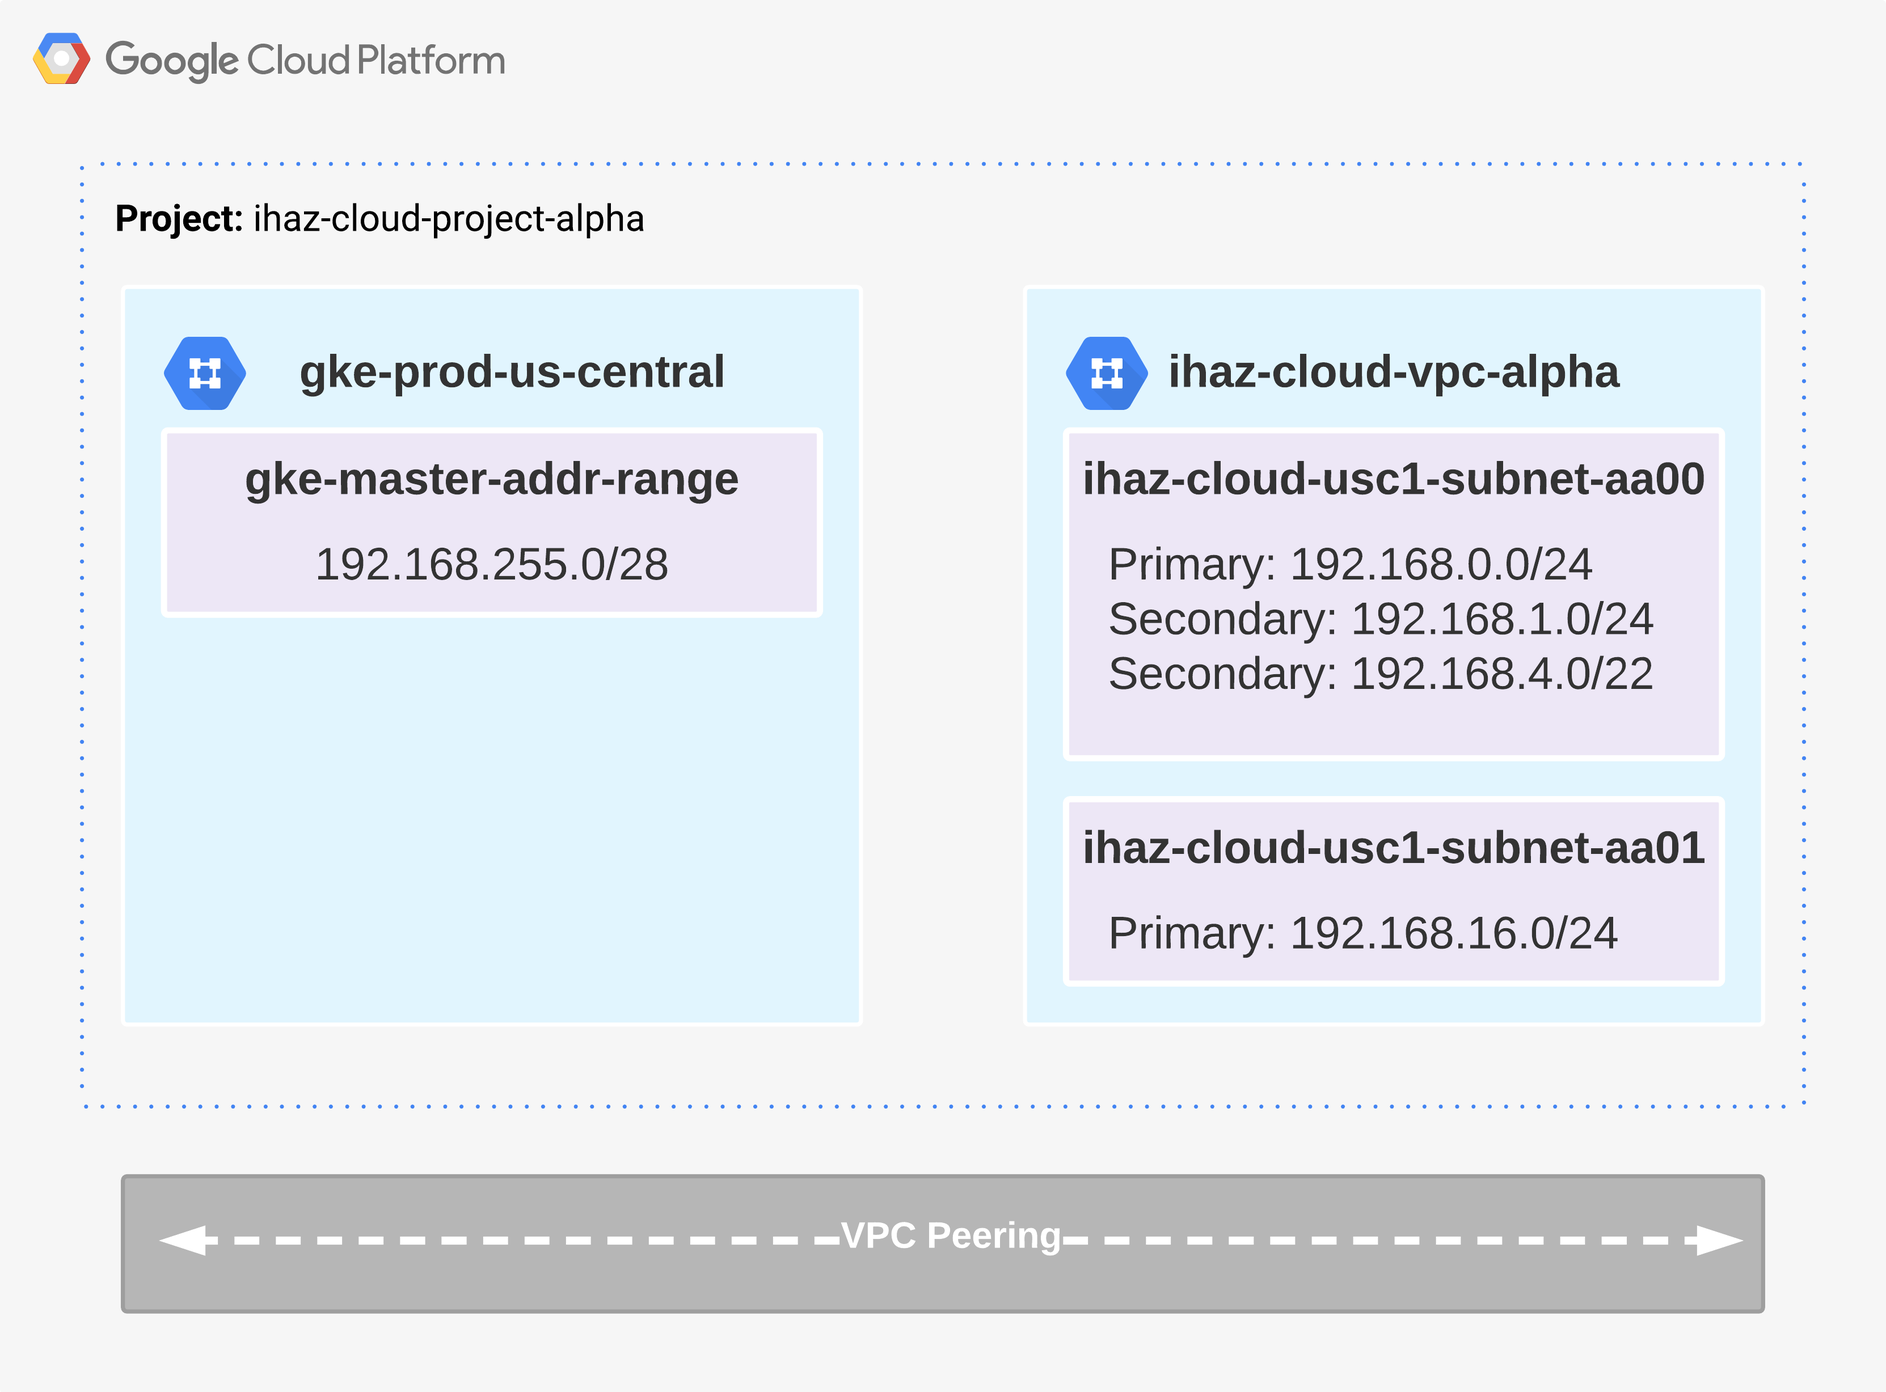
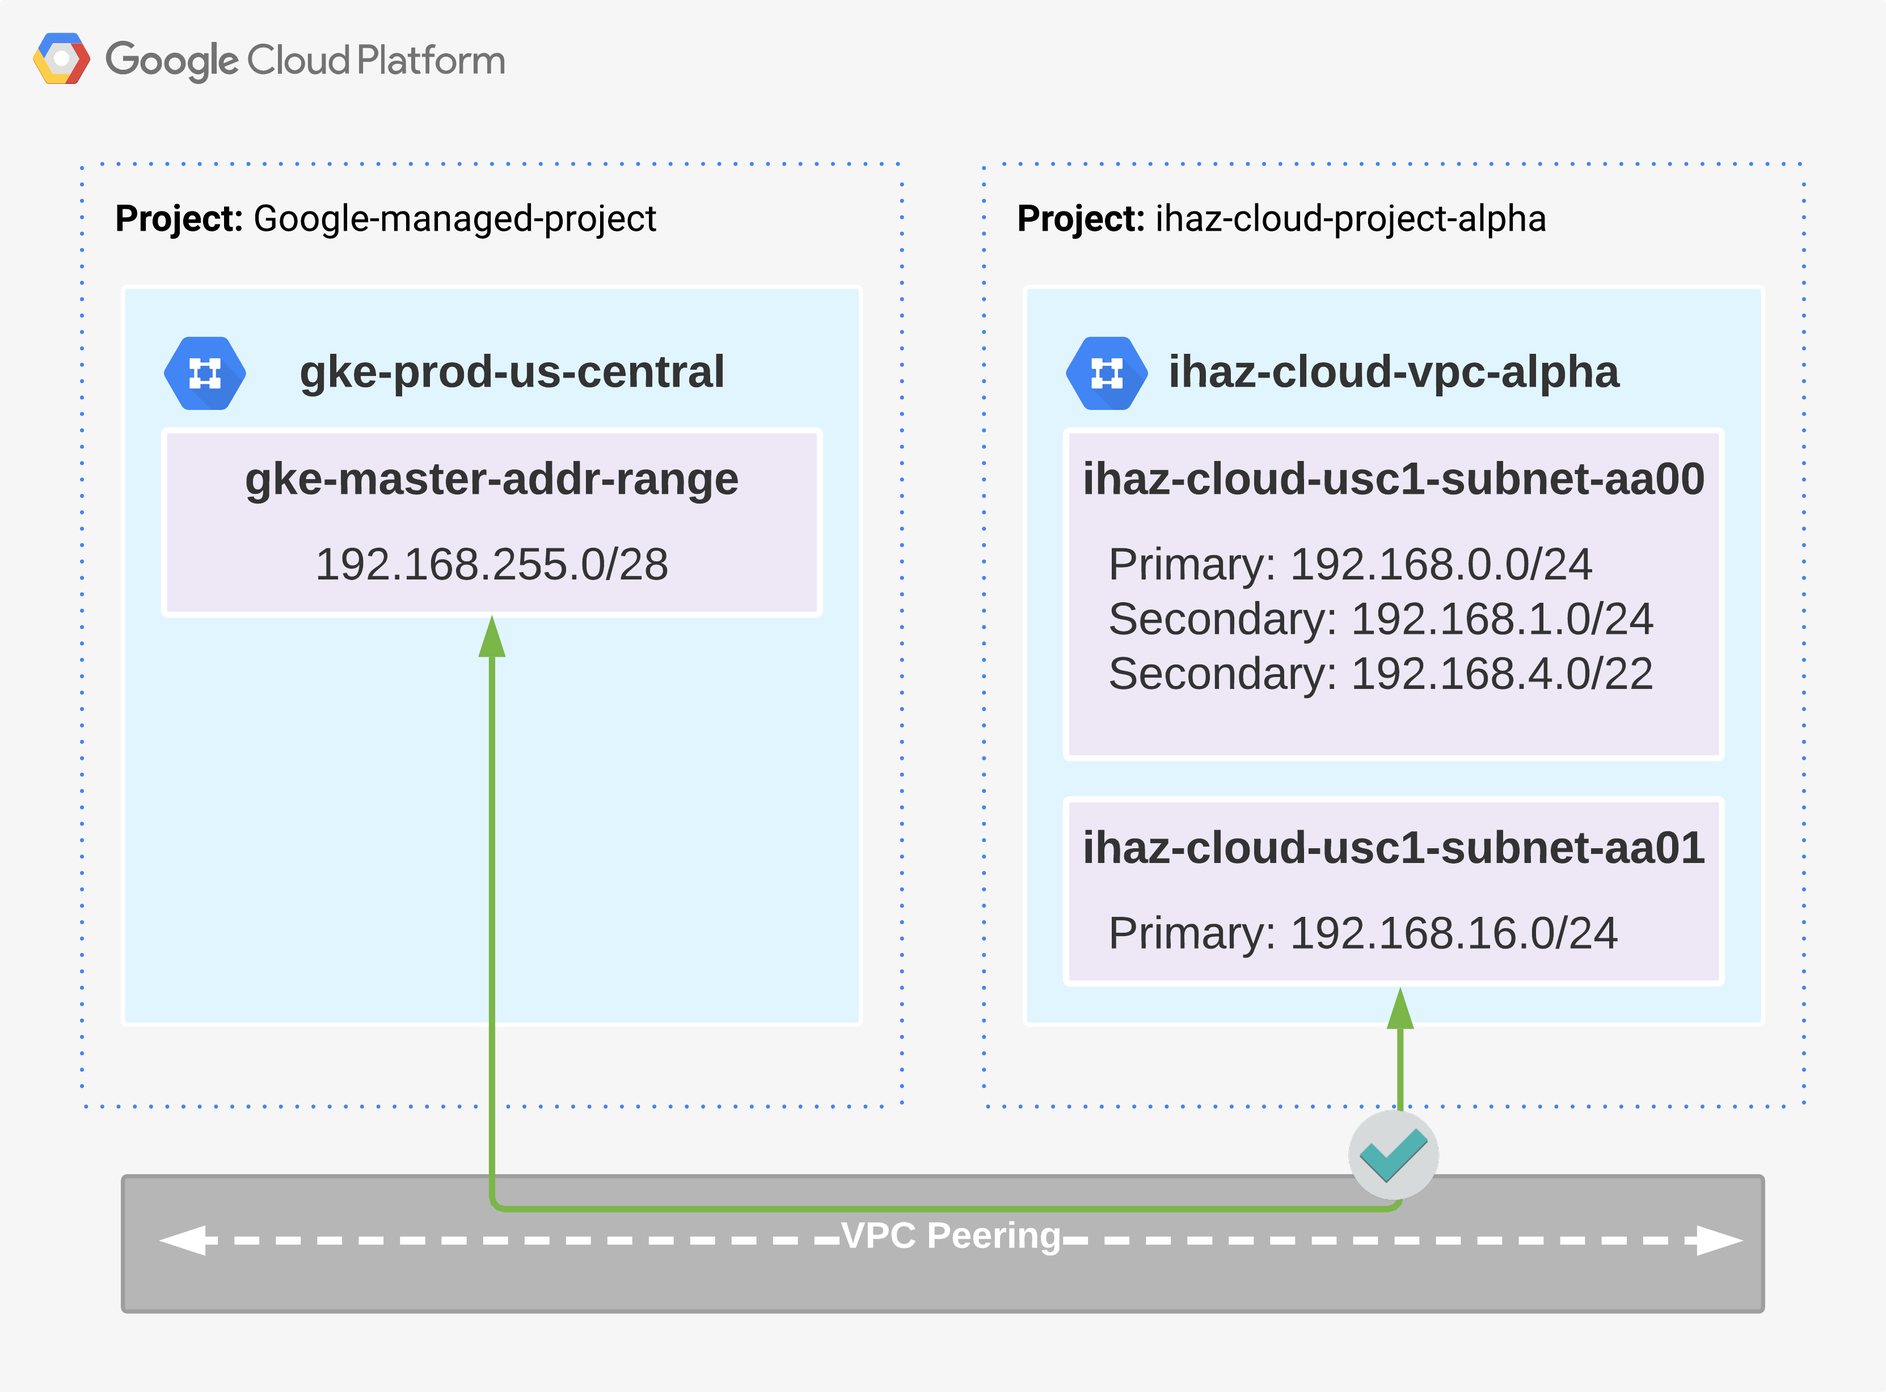
updated vpn overlay concept

diff --git a/google-cloud/1-vpn-overlay-for-vpc-peer-routing/readme.md b/google-cloud/1-vpn-overlay-for-vpc-peer-routing/readme.md
@@ -7,59 +7,256 @@ Some services establish vpc peering between Google managed infrastructure and yo
     - GKE Private Clusters (https://cloud.google.com/kubernetes-engine/docs/concepts/private-cluster-concept)
     - Private Services access for Cloud SQL (https://cloud.google.com/sql/docs/mysql/configure-private-services-access#configure-access)
     - Private IP Cloud Composer (https://cloud.google.com/composer/docs/how-to/managing/configuring-private-ip)
-<img src="./images/vpc-simple-design.png"  width="25%" height="25%" />
+
+<img src="./images/vpc-simple-design.png"  width="50%" height="50%" />
 
 Only directly peered networks can communicate. Transitive peering is not supported. In other words, if VPC network N1 is peered with N2 and N3, but N2 and N3 are not directly connected, VPC network N2 cannot communicate with VPC network N3 over VPC Network Peering.
 - https://cloud.google.com/vpc/docs/vpc-peering#restrictions
 
 ## Example Scenario
-ihaz.cloud has two projects (alpha & bravo). The alpha project has a custom VPC that hosts a GKE private cluster and is peered with both the google managed vpc (hosts GKE Master nodes) and the bravo vpc. 
+ihaz.cloud has two projects (alpha & bravo). The alpha project has a VPC with a GKE private cluster deployed (without an external ip assigned to the master) and is peered with both the google managed vpc (hosts GKE Master nodes) and the bravo vpc. 
 
-<img src="./images/vpc-transitive-issue.png"  width="25%" height="25%" />
+*Note: Since this is a private cluster and it does NOT have a public endpoint*
+
+```bash
+## Example configuration for cluster, notice that both private-nodes and private-endpoints are enabled
+## but  --enable-master-global-access is not included
+##
+## --enable-private-nodes           Cluster is created with no public IP addresses on the cluster nodes. 
+## --enable-private-endpoint        Cluster is managed using the private IP address of the master API endpoint. 
+##
+## --enable-master-global-access    Use with private clusters to allow access to the master's private endpoint from ## any Google Cloud region or on-premises environment regardless of the private cluster's region. 
+
+gcloud beta container \
+  --project "ihaz-cloud-project-alpha" clusters create "cluster-1" \
+  --zone "us-central1-c" --no-enable-basic-auth \
+  --preemptible --num-nodes "3" \
+  --enable-ip-alias \
+  --enable-private-nodes \
+  --enable-private-endpoint \
+  --enable-master-authorized-networks
+  --master-ipv4-cidr "192.168.255.0/28" \
+  --master-authorized-networks "192.168.0.0/16"
+  --network "projects/ihaz-cloud-project-alpha/global/networks/ihaz-cloud-vpc-alpha" \
+  --subnetwork "projects/ihaz-cloud-project-alpha/regions/us-central1/subnetworks/ihaz-cloud-usc1-subnet-aa00" \
+  --default-max-pods-per-node "110" \
+```
+
+When users in the ihaz-cloud-vpc-bravo attempt to communicate with the gke master node using kubectl they receive a timeout error. This occurs because there is no route available.
+
+```bash
+ihaz_admin@cloudshell:~ (ihaz-cloud-project-alpha)$ kubectl get nodes -o wide
+Unable to connect to server: dial tcp 192.168.255.2:443: i/o timeout
+```
+
+<img src="./images/vpc-transitive-issue.png"  width="50%" height="50%" />
+
+```bash
+## Output of current vpc peerings
+ihaz_admin@cloudshell:~ (ihaz-cloud-project-alpha)$ gcloud compute networks peerings list
+NAME                                     NETWORK                    PEER_PROJECT                 PEER_NETWORK                            PEER_MTU  IMPORT_CUSTOM_ROUTES  EXPORT_CUSTOM_ROUTES  STATE   STATE_DETAILS
+alpha-to-bravo                           ihaz-cloud-vpc-alpha       ihaz-cloud-project-bravo     ihaz-cloud-vpc-bravo                              False                 False                 ACTIVE  [2020-12-09T20:13:09.520-08:00]: Connected.
+gke-nc32164e1fe12c27a750-7621-bd00-peer  ihaz-cloud-vpc-alpha       gke-prod-us-central1         gke-nc32164e1fe12c27a750-7621-dcaf-net            False                 False                 ACTIVE  [2020-12-09T20:18:12.436-08:00]: Connected.
+
+## Output of advertised routes to the google-managed-project
+robert_j_c_teller@cloudshell:~ (ihaz-cloud-alpha-6eaf)$ gcloud compute networks peerings list-routes gke-nc32164e1fe12c27a750-7621-bd00-peer --network=ihaz-cloud-vpc-alpha --direction=OUTGOING --region=us-central1
+DEST_RANGE       TYPE                   NEXT_HOP_REGION  PRIORITY  STATUS
+192.168.0.0/24   SUBNET_PEERING_ROUTE   us-central1      0         accepted by peer
+192.168.1.0/24   SUBNET_PEERING_ROUTE   us-central1      0         accepted by peer
+192.168.4.0/22   SUBNET_PEERING_ROUTE   us-central1      0         accepted by peer
+
+## Output of current vpc route table for alpha project
+ihaz_admin@cloudshell:~ (ihaz-cloud-project-alpha)$ gcloud compute routes list
+NAME                            NETWORK                    DEST_RANGE        NEXT_HOP                                 PRIORITY
+default-route-382c707f189c7791  ihaz-cloud-vpc-alpha       192.168.4.0/22    ihaz-cloud-vpc-alpha                     0
+default-route-4844ffba5eac6c53  ihaz-cloud-vpc-alpha       192.168.0.0/24    ihaz-cloud-vpc-alpha                     0
+default-route-b26e1f735231adc4  ihaz-cloud-vpc-alpha       0.0.0.0/0         default-internet-gateway                 1000
+default-route-fe7a9fd3470e7af9  ihaz-cloud-vpc-alpha       192.168.1.0/24    ihaz-cloud-vpc-alpha                     0
+peering-route-b0f3c1f3de94d495  ihaz-cloud-vpc-alpha       192.168.255.0/28  gke-nc32164e1fe12c27a750-7621-bd00-peer  0
+peering-route-b39673ead4ee3e13  ihaz-cloud-vpc-alpha       192.168.32.0/24   alpha-to-bravo                           0
+
+## Output of current vpc route table for bravo project
+### Notice that there isn't a route in the bravo project for 192.168.255.0/28
+### This highlights that vpc routing is not transitive
+ihaz_admin@cloudshell:~ (ihaz-cloud-project-bravo)$ gcloud compute routes list
+NAME                            NETWORK                    DEST_RANGE       NEXT_HOP                   PRIORITY
+default-route-0e003ff30d6ff790  ihaz-cloud-vpc-bravo       192.168.32.0/24  ihaz-cloud-bravo-vpc-825d  0
+default-route-47e35ce6dbb820ea  ihaz-cloud-vpc-bravo       0.0.0.0/0        default-internet-gateway   1000
+peering-route-29c546109cf5473f  ihaz-cloud-vpc-bravo       192.168.4.0/22   bravo-to-alpha             0
+peering-route-34dfb5a2b7d47dfe  ihaz-cloud-vpc-bravo       192.168.1.0/24   bravo-to-alpha             0
+peering-route-4930277a10389873  ihaz-cloud-vpc-bravo       192.168.0.0/24   bravo-to-alpha             0
+```
 
 # Workarounds
 ## Cloud VPN
-The issue with transitive peering is the lack of routes exchangeed between peers. While GCP does support static routes it does not allow you to specify a VPC peer as the next hop. To workaround this we can leverage Cloud VPNs between the source VPC and destination VPC that is peered with the GCP Resource (GKE/Cloud-SQL/Cloud Composer) and then using Cloud Router we can inject the specific routes needed.
+The issue with transitive peering is caused by the lack of routes exchangeed between peers. While GCP does support static routes it does not allow you to specify a VPC peer as the next hop. To workaround this we can leverage Cloud VPNs between the source VPC and destination VPC that is peered with the GCP Resource (GKE/Cloud-SQL/Cloud Composer). 
 
-## Proxies
-### Connecting to Cloud SQL using the docker image
-- https://cloud.google.com/sql/docs/mysql/connect-docker
-- https://cloud.google.com/sql/docs/postgres/connect-docker
-- https://cloud.google.com/sql/docs/sqlserver/connect-docker
+<img src="./images/vpc-vpn-peering.png"  width="50%" height="50%" />
 
-```bash
-# If you are using the credentials provided by your Compute Engine instance, do not include the credential_file parameter and the -v <PATH_TO_KEY_FILE>:/config line.
+Once VPN connectivity is established we will advetise custom routes into the BGP.
 
-# Always specify 127.0.0.1 prefix in -p so that the proxy is not exposed outside the local host. 
-# The "0.0.0.0" in the instances parameter is required to make the port accessible from outside of the Docker container.
-
-docker run -d \
-  -v <PATH_TO_KEY_FILE>:/config \
-  -p 127.0.0.1:3306:3306 \
-  gcr.io/cloudsql-docker/gce-proxy:1.16 /cloud_sql_proxy \
-  -instances=<INSTANCE_CONNECTION_NAME>=tcp:0.0.0.0:3306 -credential_file=/config
-```
-
-### Connecting to GKE
-There doesn't appear to be a documented solution for connecting to private clusters within GCP but deploying nginx as a reverse proxy would work but requires maintenance if additional clusters are deployed
+*Note: The routes learned in the Alpha VPC from the Google-managed-project are not re-advertised by default so we have to manually advertise them. If you are running a large network it will be simplier to use a contigous subnet and advertise that superblock rather than each individual network*
 
 ```bash
-# Example nginx.conf for simple TCP forwarding
-# This is TCP based instead of HTTP to reduce complexity with mutual tls
-
-worker_processes auto;
-
-error_log /var/log/nginx/error.log info;
-
-events {
-    worker_connections  1024;
-}
-
-stream {
-  server {
-    listen       443;
-    
-    proxy_pass      <Private Cluster Endpoint Address>;
-  }
-}
+## Output from Cloud Router status shows that the subnet used by the GKE Master node is not being advertised
+ihaz_admin@cloudshell:~ (ihaz-cloud-project-alpha)$ gcloud compute routers get-status ihaz-cloud-alpha-router
+kind: compute#routerStatusResponse
+result:
+  bestRoutes:
+  - creationTimestamp: '2020-12-09T20:56:31.677-08:00'
+    destRange: 192.168.32.0/24
+    kind: compute#route
+    nextHopIp: 169.254.0.2
+    priority: 100
+  bestRoutesForRouter:
+  - creationTimestamp: '2020-12-09T20:56:31.676-08:00'
+    destRange: 192.168.32.0/24
+    kind: compute#route
+    nextHopIp: 169.254.0.2
+    priority: 100
+  bgpPeerStatus:
+  - advertisedRoutes:
+    - destRange: 192.168.4.0/22
+      kind: compute#route
+      nextHopIp: 169.254.0.1
+      priority: 100
+    - destRange: 192.168.1.0/24
+      kind: compute#route
+      nextHopIp: 169.254.0.1
+      priority: 100
+    - destRange: 192.168.0.0/24
+      kind: compute#route
+      nextHopIp: 169.254.0.1
+      priority: 100
+    ipAddress: 169.254.0.1
+    linkedVpnTunnel: https://www.googleapis.com/compute/v1/projects/ihaz-cloud-project-alpha/regions/us-central1/vpnTunnels/ihaz-cloud-alpha-tunnel-00
+    name: ihaz-cloud-alpha-peer-int-00
+    numLearnedRoutes: 1
+    peerIpAddress: 169.254.0.2
+    state: Established
+    status: UP
+    uptime: 2 minutes, 40 seconds
+    uptimeSeconds: '160'
+  network: https://www.googleapis.com/compute/v1/projects/ihaz-cloud-project-alpha/global/networks/ihaz-cloud-vpc-alpha
 ```
+
+The `Cloud Crouter` within ihaz-cloud-project-alpha will need to be updated to advertise a custom route for `192.168.255.0/28` since it is not being advertised. 
+
+```bash
+## Output from Cloud Router status shows that the subnet used by the GKE Master node is not being advertised
+ihaz_admin@cloudshell:~ (ihaz-cloud-project-alpha)$ gcloud compute routers get-status ihaz-cloud-alpha-router
+kind: compute#routerStatusResponse
+result:
+  bestRoutes:
+  - creationTimestamp: '2020-12-09T20:56:31.677-08:00'
+    destRange: 192.168.32.0/24
+    kind: compute#route
+    nextHopIp: 169.254.0.2
+    priority: 100
+  bestRoutesForRouter:
+  - creationTimestamp: '2020-12-09T20:56:31.676-08:00'
+    destRange: 192.168.32.0/24
+    kind: compute#route
+    nextHopIp: 169.254.0.2
+    priority: 100
+  bgpPeerStatus:
+  - advertisedRoutes:
+    - destRange: 192.168.255.0/28 <----- We can see that the network is now being advertised
+      kind: compute#route
+      nextHopIp: 169.254.0.1
+      priority: 100
+    - destRange: 192.168.4.0/22
+      kind: compute#route
+      nextHopIp: 169.254.0.1
+      priority: 100
+    - destRange: 192.168.1.0/24
+      kind: compute#route
+      nextHopIp: 169.254.0.1
+      priority: 100
+    - destRange: 192.168.0.0/24
+      kind: compute#route
+      nextHopIp: 169.254.0.1
+      priority: 100
+    ipAddress: 169.254.0.1
+    linkedVpnTunnel: https://www.googleapis.com/compute/v1/projects/ihaz-cloud-project-alpha/regions/us-central1/vpnTunnels/ihaz-cloud-alpha-tunnel-00
+    name: ihaz-cloud-alpha-peer-int-00
+    numLearnedRoutes: 1
+    peerIpAddress: 169.254.0.2
+    state: Established
+    status: UP
+    uptime: 7 minutes, 32 seconds
+    uptimeSeconds: '452'
+  network: https://www.googleapis.com/compute/v1/projects/ihaz-cloud-project-alpha/global/networks/ihaz-cloud-vpc-alpha
+```
+
+The last step is to update the vpc peer established with the google-managed-project to export custom routes
+```bash
+ihaz_admin@cloudshell:~ (ihaz-cloud-project-alpha)$ gcloud compute networks peerings list
+NAME                                     NETWORK                    PEER_PROJECT                 PEER_NETWORK                            PEER_MTU  IMPORT_CUSTOM_ROUTES  EXPORT_CUSTOM_ROUTES  STATE   STATE_DETAILS
+alpha-to-bravo                           ihaz-cloud-vpc-alpha       ihaz-cloud-project-bravo     ihaz-cloud-vpc-bravo                              False                 False                 ACTIVE  [2020-12-09T20:13:09.520-08:00]: Connected.
+gke-nc32164e1fe12c27a750-7621-bd00-peer  ihaz-cloud-vpc-alpha       gke-prod-us-central1         gke-nc32164e1fe12c27a750-7621-dcaf-net            False                 False                 ACTIVE  [2020-12-09T20:18:12.436-08:00]: Connected.
+
+ihaz_admin@cloudshell:~ (ihaz-cloud-project-alpha)$ gcloud compute networks peerings list-routes gke-nc32164e1fe12c27a750-7621-bd00-peer --network=ihaz-cloud-vpc-alpha --direction=OUTGOING --region=us-central1
+DEST_RANGE       TYPE                   NEXT_HOP_REGION  PRIORITY  STATUS
+192.168.0.0/24   SUBNET_PEERING_ROUTE   us-central1      0         accepted by peer
+192.168.1.0/24   SUBNET_PEERING_ROUTE   us-central1      0         accepted by peer
+192.168.4.0/22   SUBNET_PEERING_ROUTE   us-central1      0         accepted by peer
+
+ihaz_admin@cloudshell:~ (ihaz-cloud-project-alpha)$ gcloud compute networks peerings update gke-nc32164e1fe12c27a750-7621-bd00-peer --network=ihaz-cloud-vpc-alpha --export-custom-routes
+Updated [https://www.googleapis.com/compute/v1/projects/ihaz-cloud-project-alpha/global/networks/ihaz-cloud-vpc-alpha].
+---
+autoCreateSubnetworks: false
+creationTimestamp: '2020-12-09T20:12:42.177-08:00'
+id: '3750125214633828053'
+kind: compute#network
+name: ihaz-cloud-vpc-alpha
+peerings:
+- autoCreateRoutes: true
+  exchangeSubnetRoutes: true
+  exportCustomRoutes: false
+  exportSubnetRoutesWithPublicIp: true
+  importCustomRoutes: false
+  importSubnetRoutesWithPublicIp: false
+  name: alpha-to-bravo
+  network: https://www.googleapis.com/compute/v1/projects/ihaz-cloud-project-bravo/global/networks/ihaz-cloud-vpc-bravo
+  state: ACTIVE
+  stateDetails: '[2020-12-09T20:13:09.520-08:00]: Connected.'
+- autoCreateRoutes: true
+  exchangeSubnetRoutes: true
+  exportCustomRoutes: true
+  exportSubnetRoutesWithPublicIp: true
+  importCustomRoutes: false
+  importSubnetRoutesWithPublicIp: false
+  name: gke-nc32164e1fe12c27a750-7621-bd00-peer
+  network: https://www.googleapis.com/compute/v1/projects/gke-prod-us-central1-c-c91a/global/networks/gke-nc32164e1fe12c27a750-7621-dcaf-net
+  state: ACTIVE
+  stateDetails: '[2020-12-09T21:30:07.954-08:00]: Connected.'
+routingConfig:
+  routingMode: REGIONAL
+selfLink: https://www.googleapis.com/compute/v1/projects/ihaz-cloud-project-alpha/global/networks/ihaz-cloud-vpc-alpha
+subnetworks:
+- https://www.googleapis.com/compute/v1/projects/ihaz-cloud-project-alpha/regions/us-central1/subnetworks/ihaz-cloud-usc1-subnet-aa00
+
+ihaz_admin@cloudshell:~ (ihaz-cloud-project-alpha)$ gcloud compute networks peerings list
+NAME                                     NETWORK                    PEER_PROJECT                 PEER_NETWORK                            PEER_MTU  IMPORT_CUSTOM_ROUTES  EXPORT_CUSTOM_ROUTES  STATE   STATE_DETAILS
+alpha-to-bravo                           ihaz-cloud-vpc-alpha       ihaz-cloud-project-bravo     ihaz-cloud-vpc-bravo                              False                 False                 ACTIVE  [2020-12-09T20:13:09.520-08:00]: Connected.
+gke-nc32164e1fe12c27a750-7621-bd00-peer  ihaz-cloud-vpc-alpha       gke-prod-us-central1         gke-nc32164e1fe12c27a750-7621-dcaf-net            False                 True                  ACTIVE  [2020-12-09T20:18:12.436-08:00]: Connected.
+
+robert_j_c_teller@cloudshell:~ (ihaz-cloud-alpha-6eaf)$ gcloud compute networks peerings list-routes gke-nc32164e1fe12c27a750-7621-bd00-peer --network=ihaz-cloud-vpc-alpha --direction=OUTGOING --region=us-central1
+DEST_RANGE       TYPE                   NEXT_HOP_REGION  PRIORITY  STATUS
+192.168.0.0/24   SUBNET_PEERING_ROUTE   us-central1      0         accepted by peer
+192.168.1.0/24   SUBNET_PEERING_ROUTE   us-central1      0         accepted by peer
+192.168.32.0/24  DYNAMIC_PEERING_ROUTE  us-central1      100       accepted by peer <--- we are now advertising the network from the bravo vpc
+192.168.4.0/22   SUBNET_PEERING_ROUTE   us-central1      0         accepted by peer
+```
+
+
+And now that routes are being properly advertised users in the bravo project are able to access the GKE master node
+```bash
+ihaz_admin@cloudshell:~ (ihaz-cloud-project-alpha)$ kubectl get nodes -o wide
+NAME                                       STATUS   ROLES    AGE   VERSION             INTERNAL-IP   EXTERNAL-IP   OS-IMAGE                             KERNEL-VERSION   CONTAINER-RUNTIME
+gke-cluster-1-default-pool-4f6718c9-h8pj   Ready    <none>   58m   v1.16.15-gke.4300   192.168.0.4                 Container-Optimized OS from Google   4.19.112+        docker://19.3.1
+gke-cluster-1-default-pool-4f6718c9-kjm2   Ready    <none>   58m   v1.16.15-gke.4300   192.168.0.2                 Container-Optimized OS from Google   4.19.112+        docker://19.3.1
+gke-cluster-1-default-pool-4f6718c9-s20b   Ready    <none>   58m   v1.16.15-gke.4300   192.168.0.3                 Container-Optimized OS from Google   4.19.112+        docker://19.3.1
+```
+
